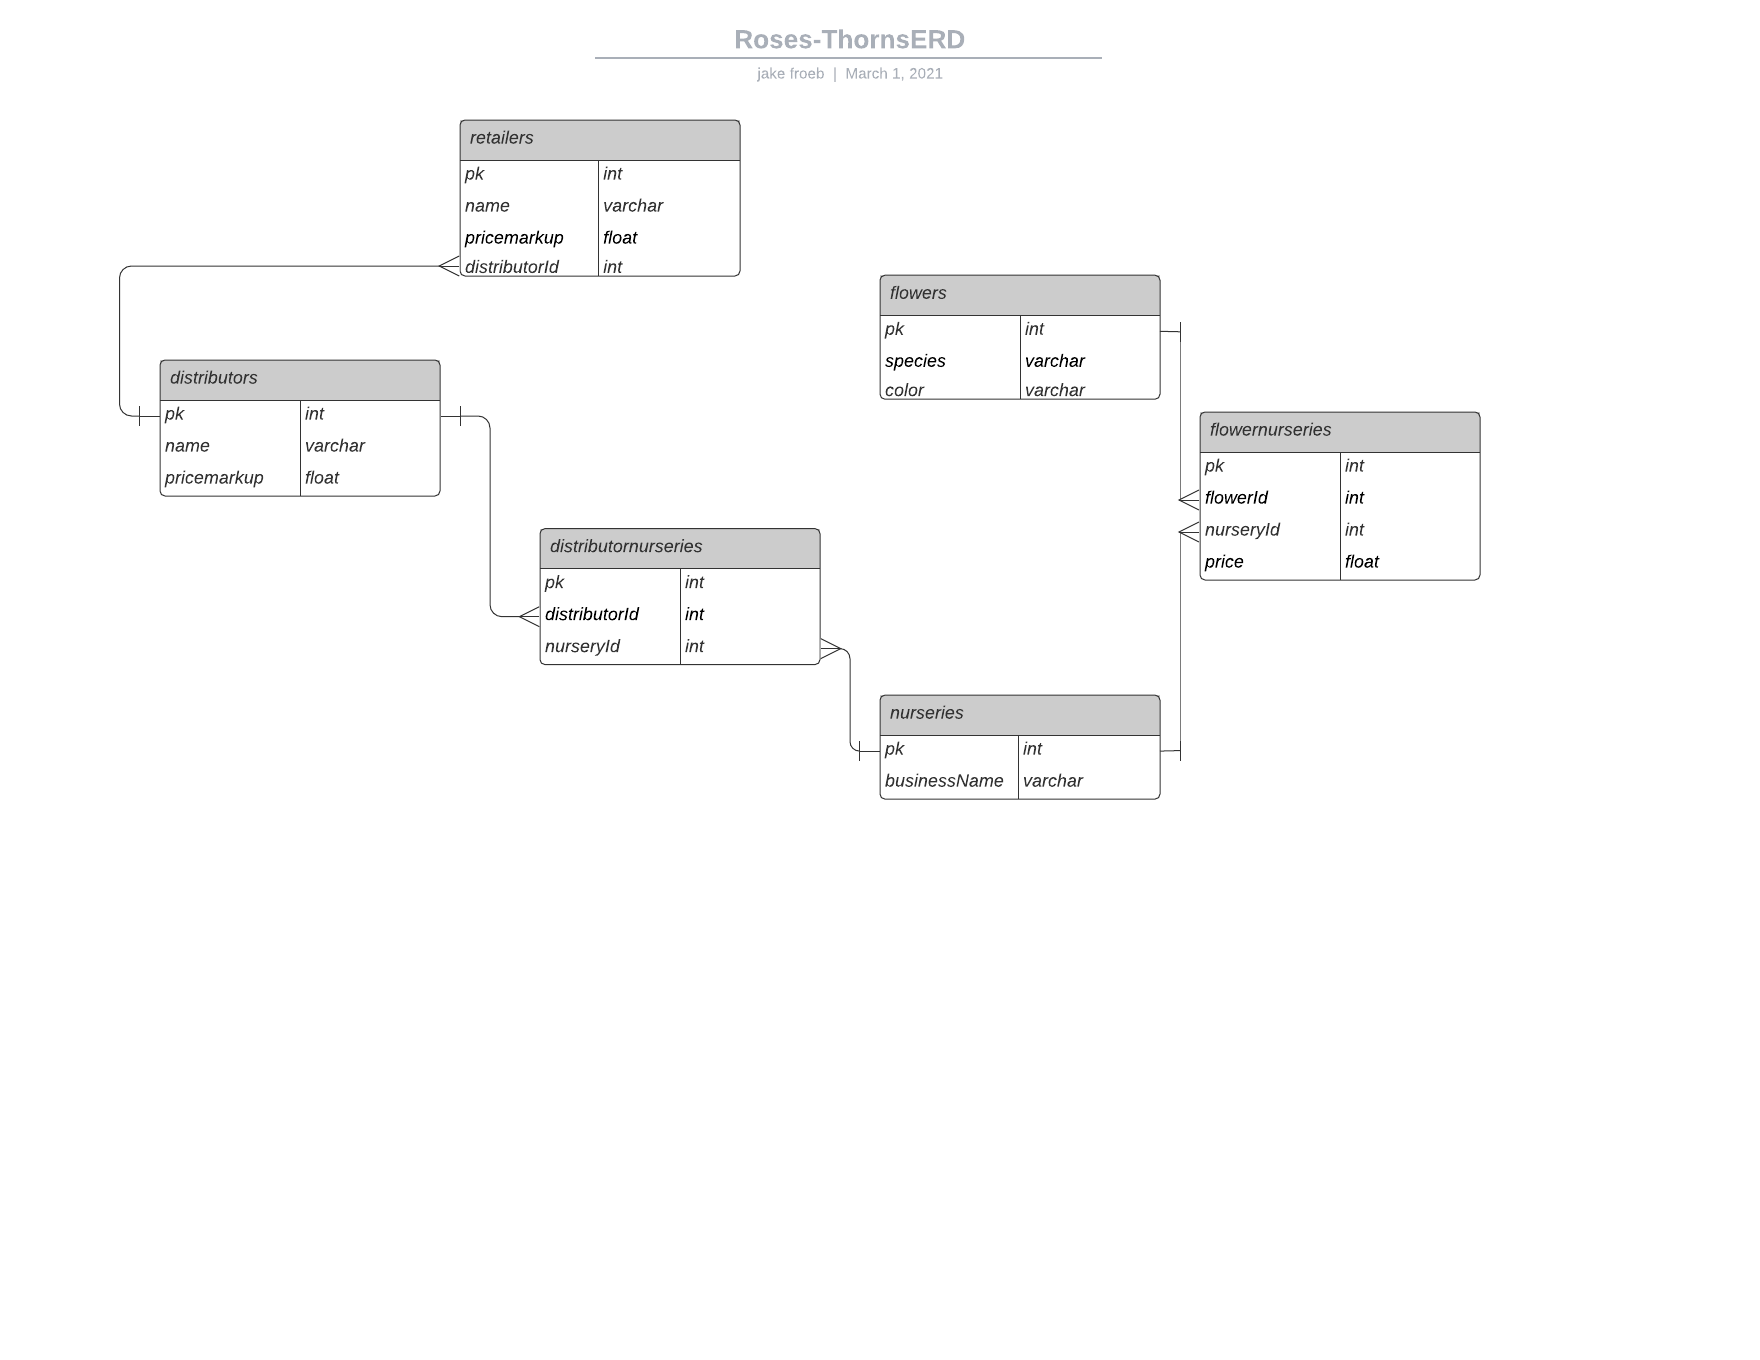
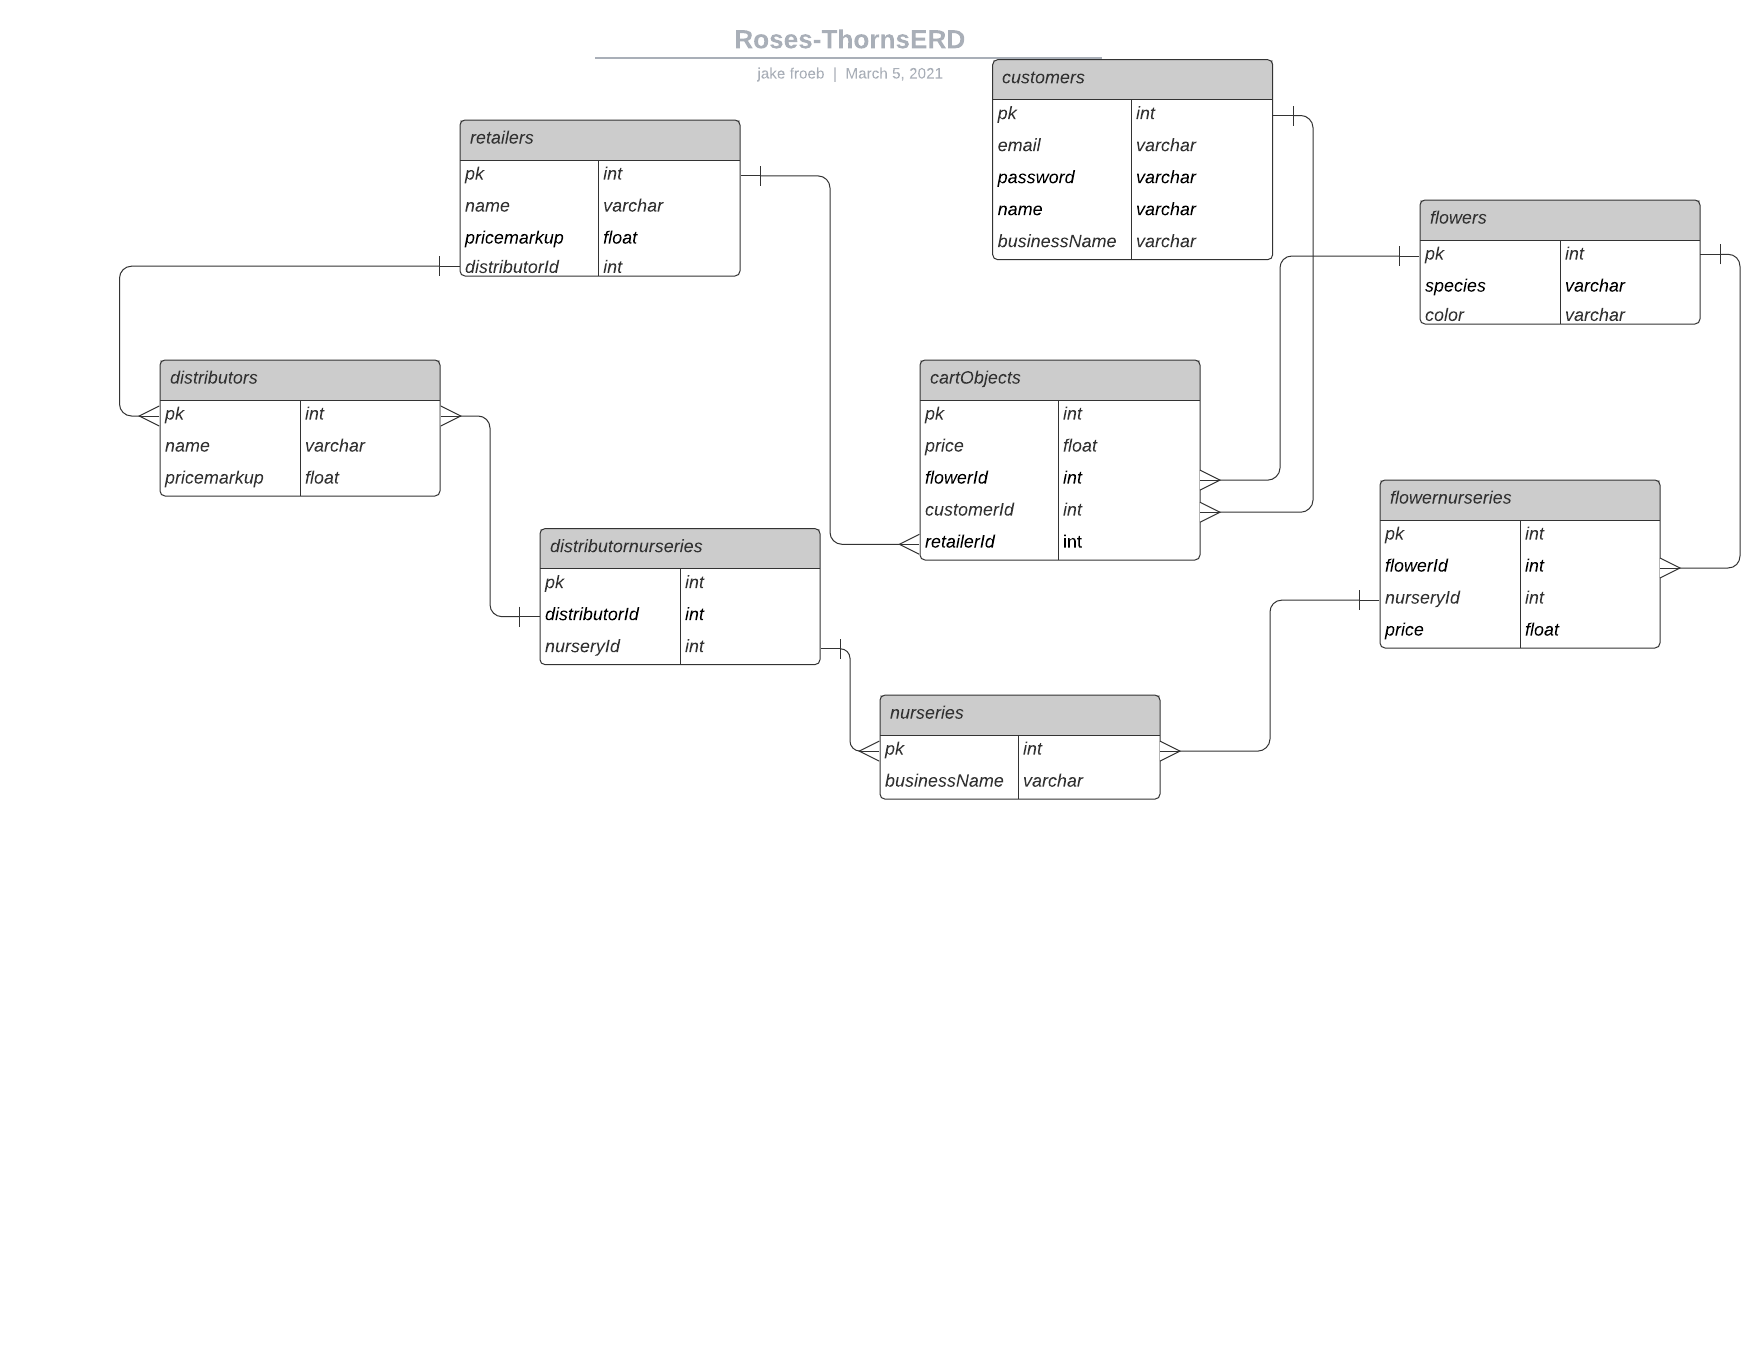
commit for my help ticket

diff --git a/src/components/customers/CartList.js b/src/components/customers/CartList.js
@@ -1,0 +1,21 @@
+import { useContext, useEffect, useState } from "react"
+import { CustomerContext } from "./CustomerProvider"
+
+export const CartList = () => {
+    const customerId = parseInt(localStorage.getItem("thorns_customer"))
+    const[cartItems, setCartItems] = useState([])
+    const {getCartItemsByCustomerId} = useContext(CustomerContext)
+
+    useEffect(()=>{
+        getCartItemsByCustomerId(customerId)
+        .then(setCartItems)
+    },[])
+
+    return (
+        <>
+        {console.log(cartItems)}
+        
+        {cartItems.map(cartItem => <div key={cartItem.id}>{cartItem.flower.color} {cartItem.flower.species} {cartItem.price}</div>)}
+        </>
+    )
+}

diff --git a/src/components/ApplicationViews.js b/src/components/ApplicationViews.js
@@ -1,5 +1,6 @@
 import React from "react"
 import { Route } from "react-router-dom"
+import { CartList } from "./customers/CartList"
 import { CustomerProvider } from "./customers/CustomerProvider"
 import { DistributorList } from "./distributors/DistributorList"
 import { DistributorProvider } from "./distributors/DistributorProvider"
@@ -31,6 +32,11 @@ export const ApplicationViews = () =>{
                     </NurseryProvider>
                 </CustomerProvider>
             </Route> 
+            <Route exact path="/cart">
+                <CustomerProvider>
+                    <CartList/>
+                </CustomerProvider>
+            </Route>
         </>
     )
 }

diff --git a/src/components/customers/CustomerProvider.js b/src/components/customers/CustomerProvider.js
@@ -12,8 +12,12 @@ export const CustomerProvider = (props) => {
             body: JSON.stringify(cartObj)
         })
     }
+    const getCartItemsByCustomerId = (id) => {
+        return fetch(`http://localhost:8088/cartObjects/?customerId=${id}&_expand=flower&_expand=customer&_expand=retailer`)
+        .then(res=>res.json())
+    }
     return(
-        <CustomerContext.Provider value={{addCartItem}}>
+        <CustomerContext.Provider value={{addCartItem, getCartItemsByCustomerId}}>
             {props.children}
         </CustomerContext.Provider>
     )

diff --git a/src/components/retailers/Retailer.js b/src/components/retailers/Retailer.js
@@ -4,7 +4,7 @@ import { CustomerContext } from "../customers/CustomerProvider"
 export const Retailer = ({distributor, matchingFns, retailer}) => {
     const {addCartItem} = useContext(CustomerContext)
     const purchaseFlower = (e) => {
-        let flowerId = parseInt(e.target.value.split(","))
+        let flowerId = parseInt(e.target.value.split(",")[0])
         let price = parseFloat(e.target.value.split(",")[1])
         let cartObj = {
             customerId : parseInt(localStorage.getItem("thorns_customer")),

diff --git a/src/components/nav/NavBar.js b/src/components/nav/NavBar.js
@@ -14,6 +14,9 @@ export const NavBar = (props) => {
             <li className="navbar__item">
                 <Link className="navbar__link" to="/retailers">Retailers</Link>
             </li>
+            <li className="navbar__item">
+                <Link className="navbar__link" to="/cart">My Cart</Link>
+            </li>
         </ul>
     )
 }
